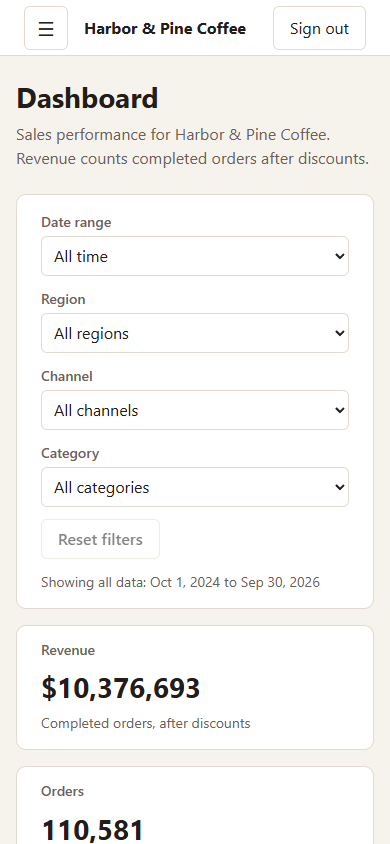
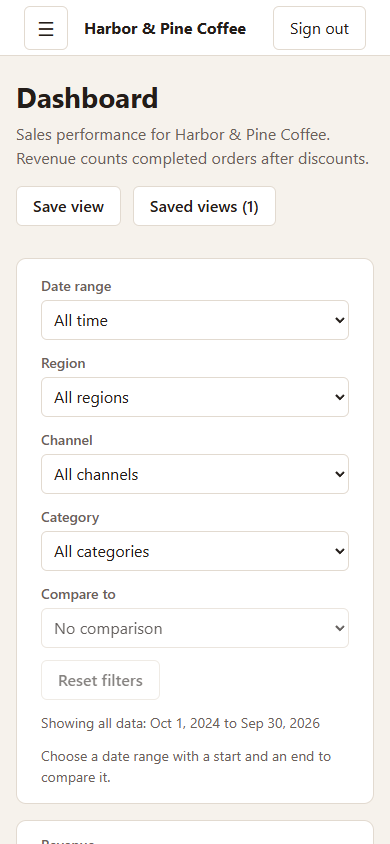
README, screenshots and portfolio kit for version 2

diff --git a/docs/portfolio/README.md b/docs/portfolio/README.md
@@ -14,20 +14,24 @@ Upwork's limits differ between its help pages (title 40 or 70 characters, descri
 | Skills (pick 5) | Angular, ASP.NET Core, PostgreSQL, Dashboard, Data Visualization (alternatives: C#, .NET, TypeScript, Docker, CSV) | |
 | Project link | The GitHub repository (and the live demo link once it is deployed) | |
 
-**Project description (284 characters):**
+**Project description (286 characters):**
 
-> Web app that turns a sales CSV into a reporting dashboard: validated import with an error report, KPI cards and charts, shared filters, click-through from any chart to the exact rows behind it, and CSV export. Angular 22, ASP.NET Core (.NET 10), PostgreSQL, Docker; tested end to end.
+> Web app that turns a sales CSV into a reporting dashboard: validated import with column mapping, KPIs compared with earlier periods, what-changed breakdowns, drill-down to the exact rows, CSV export, read-only share links and optional plain-English questions. Angular, .NET, PostgreSQL.
 
-**Longer description, if 600 characters are allowed:**
+**Longer description, if 600 characters are allowed (592 characters):**
 
-> Small teams often run their sales reporting from spreadsheets. This web app turns a sales CSV into a reporting dashboard: an import that validates every row and explains each rejected one, KPI cards and charts computed in the database from one set of definitions, filters shared by every screen, one click from any chart to the exact rows behind it, and CSV export of the current view. Built solo with Angular 22, ASP.NET Core on .NET 10 and PostgreSQL; tested from the database to the browser; runs with one Docker command. Fictional demo data; built with AI assistance.
+> Small teams often run their sales reporting from spreadsheets. This web app turns a sales CSV, even a shop export with its own column names, into a reporting dashboard: KPIs compared with the previous period or last year, a plain sentence on what drove each change, one click from any number to the exact rows behind it, CSV export, read-only share links, and optional questions in plain English answered with the app's own figures. Built solo with Angular 22, ASP.NET Core on .NET 10 and PostgreSQL; tested from database to browser; runs with one Docker command. Fictional data; AI-assisted.
+
+The version 1 texts (before comparison, mapping, sharing and questions) are in this file's history at tag `v1.0.0`.
 
 **Images, in this order, with captions:**
 
 1. `docs/screenshots/dashboard.png`: *Dashboard: revenue, orders, average order value and refund rate, revenue over time and by category and region. Every number is computed in the database from one set of definitions.*
-2. `docs/screenshots/orders-drill-down.png`: *Clicking the Blends bar opens the orders grid on exactly those order lines. The chips show why the list is filtered; the view can be sorted, searched and exported to CSV.*
-3. `docs/screenshots/import-result.png`: *Import result: valid rows imported, problem rows skipped with the reason for each, downloadable as an error report. Re-imported rows are recognized and not counted twice.*
-4. `docs/screenshots/dashboard-mobile.png`: *The same dashboard on a phone: filters, KPI cards and charts stack into one column.*
+2. `docs/screenshots/dashboard-compare.png`: *Q3 compared with the previous period: each KPI shows its change, and "What changed?" lists the regions that drove it, largest first. Every row opens the orders behind it.*
+3. `docs/screenshots/orders-drill-down.png`: *Clicking the Blends bar opens the orders grid on exactly those order lines. The chips show why the list is filtered; the view can be sorted, searched and exported to CSV.*
+4. `docs/screenshots/import-mapping.png`: *Importing a shop export with its own column names: Numera suggests which column is which, flags dates that could be read two ways, and can remember the mapping.*
+5. `docs/screenshots/shared-view.png`: *A saved view opened through a share link, without an account: the same figures, read-only, with an expiry date.*
+6. `docs/screenshots/dashboard-mobile.png`: *The same dashboard on a phone: filters, KPI cards and charts stack into one column.*
 
 ## Portfolio title
 
@@ -63,26 +67,39 @@ Solo developer: requirements, architecture, backend, frontend, database, tests, 
 - Drill-down from any chart bar or point, by mouse or keyboard, to exactly the matching order lines
 - CSV export of the current view, streamed from the database, with spreadsheet formula-injection protection
 - Demo data reset with confirmation; loading, empty, error and success states on every screen
-- Accessibility: keyboard navigation, skip link, focus management, axe-checked at three screen widths
+- Accessibility: keyboard navigation, skip link, focus management, axe-checked at three screen widths in the automated end-to-end suite
+
+Version 2 (release `v2.0.0`):
+
+- Period comparison: every KPI against the previous period or the same period last year, with the comparison line on the revenue chart
+- "What changed?": the revenue change split by region, channel or category, with a summary sentence and links to the rows in both periods
+- Column mapping on import: suggested columns, four date formats, percentage discounts, saved mappings per user
+- Saved views and read-only share links with expiry and revocation, served by rate-limited public endpoints that expose figures only
+- Optional questions in plain English: Claude turns a question into a request in a fixed schema, which Numera validates and answers with its own queries
 
 ## Most valuable technical decisions
 
 1. **Numbers that agree everywhere.** KPI definitions live in one place and run as SQL in PostgreSQL, never by loading rows into the app. A drill-down opens the grid on exactly the rows behind a chart value, and an automated test checks for every chart point and bar that the rows add up to the value shown.
 2. **An import pipeline that reports instead of failing.** Rows stream into a staging table with PostgreSQL's binary COPY. Invalid and duplicate rows are recorded with a row number and reason, and the rest are imported in one transaction. Measured: a 100,000-row file in about 4.5 seconds on a development machine.
 3. **An export that matches the screen.** The grid and the export share one query and the export reads from a single database snapshot, so the file holds exactly what the grid shows. It streams without holding the file in server memory (measured with a throttled download). Oversized exports are refused with a clear message rather than truncated.
-4. **One production image, tested end to end.** The same Docker image runs locally, in CI and on the hosted demo, and a Playwright test drives the main flow against it on every push. It caught a production-only Content-Security-Policy problem before release.
+4. **One production image, tested end to end.** The same Docker image runs locally, in CI and on the hosted demo, and Playwright tests drive the version 1 and version 2 flows and an accessibility check against it on every push. It caught a production-only Content-Security-Policy problem before release.
+5. **Explanations from the same numbers.** A comparison is the same query for two date ranges; "What changed?" splits the difference by group. Tests check that the comparison equals the KPIs for those dates asked directly, and that each group's rows add up to its figure.
+6. **AI that cannot make up figures.** The question box asks the model only to fill in a fixed request schema; the API validates it like any other request and answers with the dashboard's own queries, so an answer's numbers are the dashboard's and the request is shown for the user to check. It is off without an API key, with per-user and daily limits when on.
 
 ## Suggested screenshot sequence
 
 1. `docs/screenshots/dashboard.png`: the dashboard with KPIs and charts (lead image)
-2. `docs/screenshots/orders-drill-down.png`: the grid after a drill-down, with filter chips
-3. `docs/screenshots/import-result.png`: an import with rejected rows and the error report button
-4. `docs/screenshots/dashboard-mobile.png`: the dashboard on a phone
-5. `docs/screenshots/login.png`: the sign-in page with the demo account (optional)
+2. `docs/screenshots/dashboard-compare.png`: comparison with the previous period and "What changed?"
+3. `docs/screenshots/orders-drill-down.png`: the grid after a drill-down, with filter chips
+4. `docs/screenshots/import-mapping.png`: the column mapping step for a shop export
+5. `docs/screenshots/shared-view.png`: a saved view opened through a share link
+6. `docs/screenshots/import-result.png`: an import with rejected rows and the error report button
+7. `docs/screenshots/dashboard-mobile.png`: the dashboard on a phone
+8. `docs/screenshots/login.png`: the sign-in page with the demo account (optional)
 
 ## Search keywords
 
-sales dashboard, reporting dashboard, KPI dashboard, CSV import, data import pipeline, data validation, drill-down reports, CSV export, Angular, Angular Signals, NgRx, ASP.NET Core, .NET, C#, Web API, PostgreSQL, EF Core, Chart.js, data visualization, full-stack developer, business intelligence, admin panel, Docker, GitHub Actions, Playwright, Testcontainers, accessibility
+sales dashboard, reporting dashboard, KPI dashboard, period comparison, variance analysis, shareable reports, column mapping, AI assistant, natural language query, Claude API, CSV import, data import pipeline, data validation, drill-down reports, CSV export, Angular, Angular Signals, NgRx, ASP.NET Core, .NET, C#, Web API, PostgreSQL, EF Core, Chart.js, data visualization, full-stack developer, business intelligence, admin panel, Docker, GitHub Actions, Playwright, Testcontainers, accessibility
 
 ## Client services this project supports
 

diff --git a/README.md b/README.md
@@ -19,10 +19,22 @@ Many small businesses keep their sales in spreadsheets and answer questions by h
 - **Take it with you.** Export the current view to CSV, ready for Excel.
 - **Works on a phone**, and with the keyboard.
 
+New in version 2:
+
+- **Compare periods.** Every KPI shows its change against the previous period or the same period last year (for example "▲ +6.7% vs previous period"), and the revenue chart draws the earlier period as a dashed line.
+- **See what changed.** When revenue moves, Numera lists which regions, channels or categories drove the change, largest first, in a sentence and with bars, and each one opens its rows.
+- **Import your own export.** A file from a shop system with other column names, `dd/MM/yyyy` dates or percentage discounts gets a short mapping step: Numera suggests which column is which, you confirm, and it can remember the mapping for next time.
+- **Save and share views.** Save a dashboard view under a name. Share it as a read-only link that works without an account, shows the figures but never the order rows, expires after 1, 7 or 30 days and can be revoked.
+- **Ask in plain English** (optional, needs an AI API key). Type a question such as "Which region had the most orders in 2026?". An AI model turns it into one of the dashboard's own requests; Numera checks it and answers with its own figures, and shows what it looked up.
+
 | | |
 |---|---|
 | ![The orders list after clicking the "Blends" bar, showing the active filters](docs/screenshots/orders-drill-down.png) | ![An import result with imported and rejected rows and a button to download the error report](docs/screenshots/import-result.png) |
 | From a chart to the rows behind it | An import with rejected rows and their report |
+| ![KPI cards compared with the previous period, and the "What changed?" panel listing regions by their contribution](docs/screenshots/dashboard-compare.png) | ![The column mapping step: a choice per field with an example value, the date and discount formats, and the first rows of the file](docs/screenshots/import-mapping.png) |
+| Comparing with the previous period, and what changed | Importing a file with other column names |
+| ![A saved view opened through a share link: read-only, with the dates, filters and expiry at the top](docs/screenshots/shared-view.png) | |
+| A shared view, without signing in | |
 
 ## Try it
 
@@ -80,7 +92,12 @@ When you are done, run `docker compose down` in the same folder. Your data is ke
 3. **Orders:** click a column header to sort, type part of an order number (for example `0123`) in the search box, and page through.
 4. **Export:** click **Export CSV** and open the file in Excel. It holds every row of the current view, in the same order.
 5. **Import:** on **Import**, download the sample CSV, upload it, and look at the result: what was imported, what was rejected and why. **Download error report** gives the reasons per row.
-6. **Start over:** **Settings > Reset demo data** puts the original data back.
+6. **Compare:** back on the dashboard, choose **Custom range** from 07/01/2026 to 09/30/2026 and set **Compare to** to **Previous period**. Each KPI shows its change, the chart gets a dashed line, and **What changed?** lists the regions that drove it. Try the **Channel** and **Category** tabs, and click a region to see its rows.
+7. **Import a shop export:** on **Import**, download **a sample with other column names** and upload it. Check the suggested columns, set the date format to `dd/MM/yyyy` (the dates in that file could be read both ways), tick **Save this mapping** and import.
+8. **Share:** on the dashboard, **Save view**, then **Saved views > Share > Create link**. Open the link in a private window: the same figures, no sign-in, no order rows. Revoke it under **Settings > Shared links**.
+9. **Start over:** **Settings > Reset demo data** puts the original data back (and removes saved views, links and mappings).
+
+Questions in plain English appear on the dashboard only when an Anthropic API key is configured (`ANTHROPIC_API_KEY` in `.env`). The rest of Numera works without it.
 
 ---
 
@@ -110,13 +127,18 @@ flowchart LR
 | Frontend | Angular 22 (standalone components, Signals), NgRx SignalStore, Chart.js | Typed and structured; a store only for state shared across screens (filters, import status) |
 | Tests | xUnit, Testcontainers (a real PostgreSQL), Vitest component tests, Playwright end-to-end | Database code is tested against the real engine, and the whole flow in a real browser |
 | Delivery | Docker (multi-stage, non-root), Docker Compose, GitHub Actions | One command to run; CI tests the same image that is deployed |
+| AI (optional) | Claude through the Anthropic C# SDK, structured outputs | The model only fills in a fixed request schema; validation and the figures stay in Numera |
 
 - **One image:** the API also serves the Angular app, so the whole product is one container plus a database.
 - **Numbers that agree everywhere:** every KPI and chart is one SQL query in PostgreSQL, from definitions written down once in [docs/ARCHITECTURE.md](docs/ARCHITECTURE.md). Clicking a chart opens exactly the rows behind its value, and an automated test checks that those rows add up to the value for every point and bar.
 - **Imports that report instead of failing:** rows stream into the database with PostgreSQL's bulk `COPY`; invalid and duplicate rows are recorded with the reason and the rest are imported. A 100,000-row file took about 4.5 s on the development machine.
 - **Exports that match the screen:** the grid and the export share one query and read one consistent snapshot of the data. A 95,924-row export streamed in about 0.2 s without the server holding the file in memory. Larger exports than 100,000 rows are refused with a clear message rather than cut short.
-- **Security basics:** sign-in with JWT, every data endpoint protected, rate limits on sign-in and reset, upload size and row limits, protection against spreadsheet formula injection in exports, a strict Content-Security-Policy, and no secrets in the repository.
-- **Accessibility:** keyboard navigation, a skip link, focus handling between pages, and an axe check at phone, tablet and desktop widths with no violations reported.
+- **Explanations built from the same numbers:** a period comparison is the same query run for two date ranges, and "What changed?" splits the difference by group. Automated tests check that the comparison equals the KPIs asked for those dates directly, and that each group's rows add up to its figure.
+- **Mapped imports, same pipeline:** a column mapping only changes which column feeds each field and how dates and discounts are read; validation, limits and the error report are the version 1 pipeline. A 100,000-row mapped import took 3.6 to 4.0 s on the development machine.
+- **Share links treated as secrets:** 256-bit tokens, stored only as a hash, shown once, with expiry, revocation, rate limits and no caching or referrers; a shared page can only ever show figures for its saved view.
+- **AI that cannot invent numbers:** the optional question box asks Claude only to translate the question into a request in a fixed schema. Numera validates that request like any other and runs its own queries, so an answer's figures are the dashboard's, and the request is shown for the user to check.
+- **Security basics:** sign-in with JWT, every data endpoint protected, rate limits on sign-in, reset, share links and questions, upload size and row limits, protection against spreadsheet formula injection in exports, a strict Content-Security-Policy, and no secrets in the repository.
+- **Accessibility:** keyboard navigation, a skip link, focus handling between pages, and an axe check of every main screen at phone, tablet and desktop widths, part of the automated end-to-end suite, with no violations reported.
 
 Measurements and how they were taken are in [PROGRESS.md](PROGRESS.md); the reasons behind each choice are in [DECISIONS.md](DECISIONS.md).
 
@@ -148,7 +170,7 @@ dotnet test                                   # unit and integration tests (need
 cd web && npm ci && npm test -- --watch=false # Angular component and unit tests
 ```
 
-End to end (Playwright), against the app from `docker compose up --build -d`:
+End to end (Playwright: the version 1 flow, the version 2 flow, and accessibility at three widths), against the app from `docker compose up --build -d`:
 
 ```bash
 cd e2e && npm ci && npx playwright install chromium && npx playwright test
